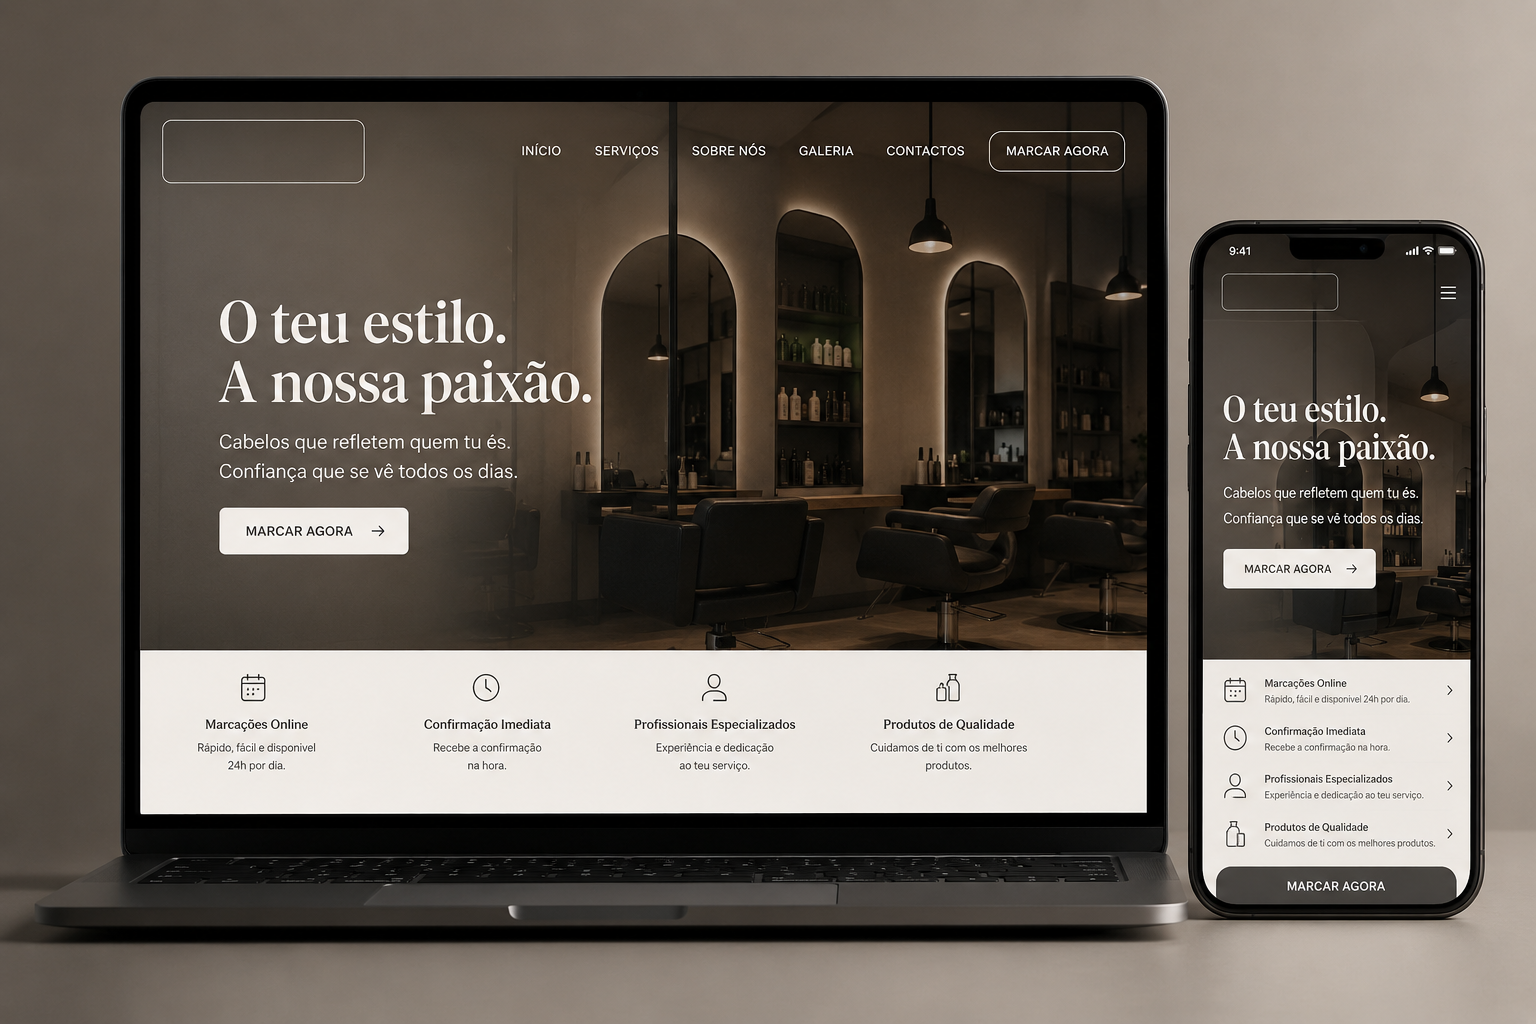
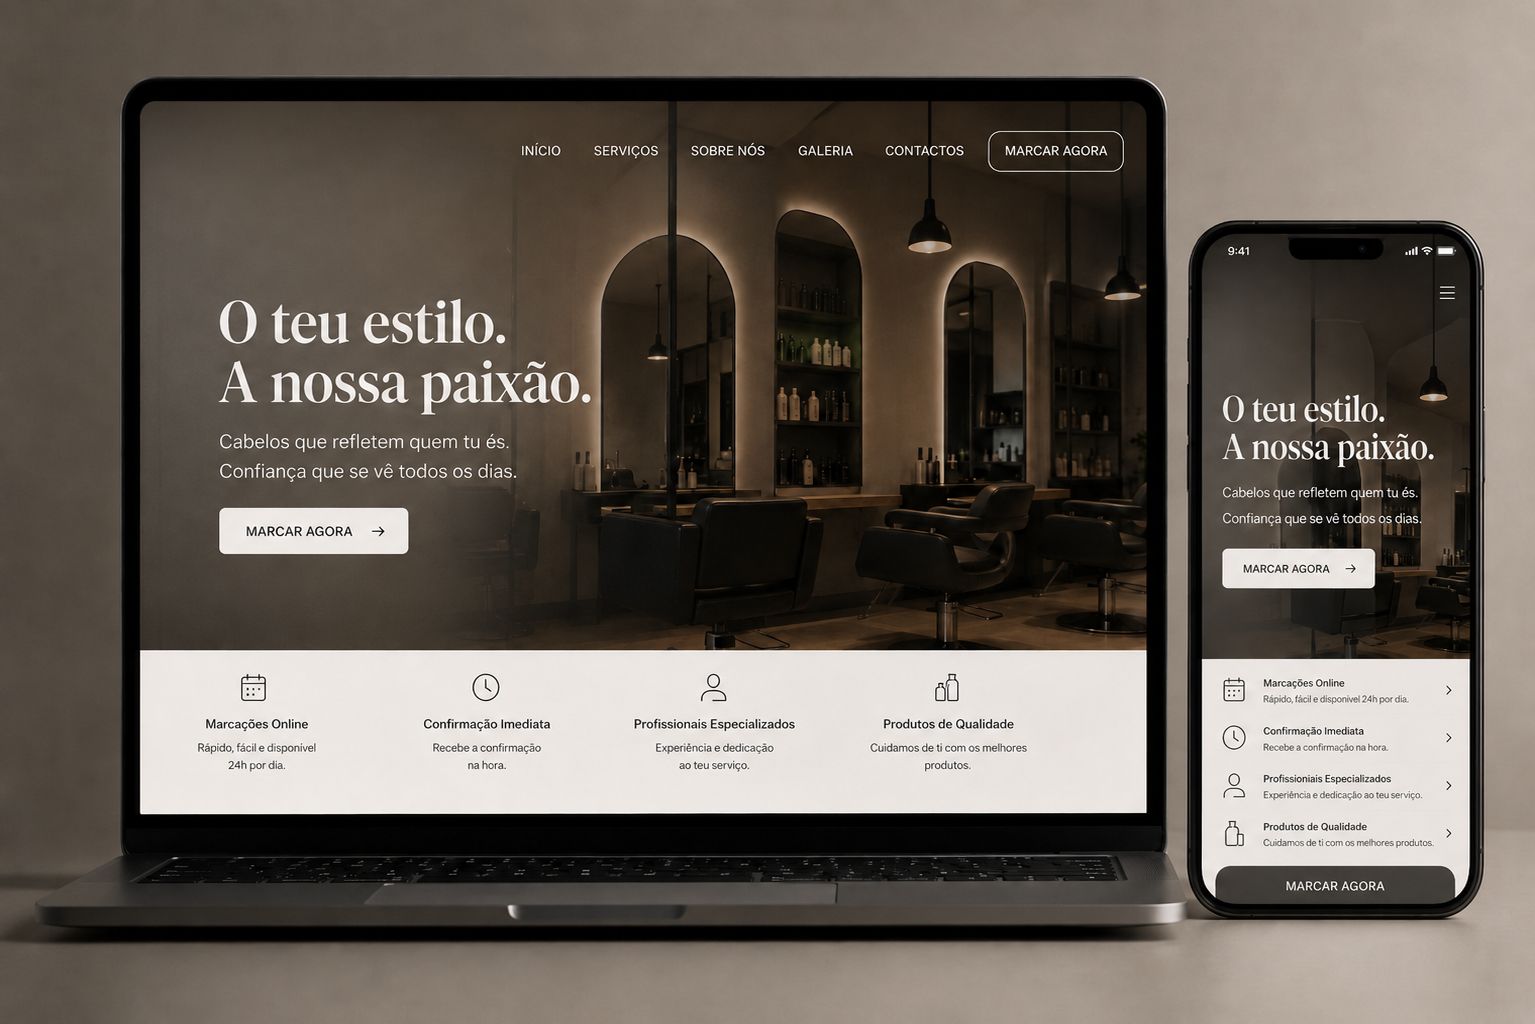
Update prospect mockup template

diff --git a/app.js b/app.js
@@ -2329,7 +2329,7 @@ async function createProspectMockupImage(prospect, logoDataUrl, fields) {
   canvas.width = 1536;
   canvas.height = 1024;
   const ctx = canvas.getContext("2d");
-  const templateImage = await loadImageData("./assets/mockup-template-premium.png", "Não foi possível carregar o modelo premium.");
+  const templateImage = await loadImageData("./assets/mockup-template-premium.png?v=20260901-3", "Não foi possível carregar o modelo premium.");
   const logoImage = await loadImageData(logoDataUrl, "Não foi possível carregar o logotipo.");
   const name = fields.name || prospect.name || "Cliente";
 

diff --git a/index.html b/index.html
@@ -1042,6 +1042,6 @@
     <script src="https://cdn.jsdelivr.net/npm/@supabase/supabase-js@2"></script>
     <script src="./supabase-config.js"></script>
     <script src="./pricing.js"></script>
-    <script src="./app.js?v=20260901-2"></script>
+    <script src="./app.js?v=20260901-3"></script>
   </body>
 </html>
